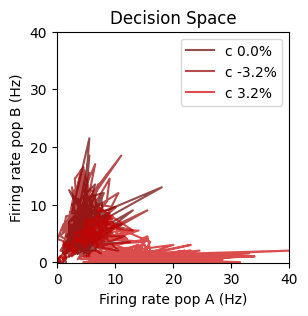
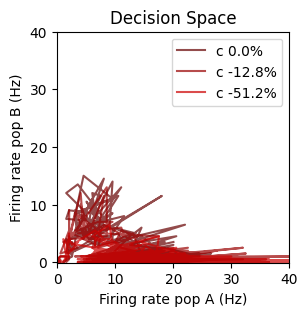
run figure1345

diff --git a/NEST/sim_figure_4.py b/NEST/sim_figure_4.py
@@ -65,8 +65,8 @@ if figure_4b:
     fig,ax4b = plt.subplots(4,1,figsize = [5,10])
     dt_string = 'standard/'
     #DA SETTARE
-    mult_coherence = [0.0,0.032]
-    n_trial = 3
+    mult_coherence = [0.0,0.032, 0.064, 0.128]
+    n_trial = 200
     for i,coherence in enumerate(mult_coherence):
         mean_activity_wB_sB = []
         mean_activity_wA_sB = []
@@ -89,14 +89,14 @@ if figure_4b:
             
         mean_activity_wB_sB = np.mean(mean_activity_wB_sB,axis=0)
         mean_activity_wA_sB = np.mean(mean_activity_wA_sB,axis=0)
-        mean_activity_wB_sB = signal.medfilt(mean_activity_wB_sB,55)
-        mean_activity_wA_sB = signal.medfilt(mean_activity_wA_sB,55)
+        mean_activity_wB_sB = signal.medfilt(mean_activity_wB_sB,35)
+        mean_activity_wA_sB = signal.medfilt(mean_activity_wA_sB,35)
         
-        ax4b[i].plot(t,mean_activity_wB_sB,'black')
-        ax4b[i].plot(t,mean_activity_wA_sB,'orange','--',alpha=0.6)
+        ax4b[i].plot(t[0:120],mean_activity_wB_sB[0:120],'black')
+        ax4b[i].plot(t[0:120],mean_activity_wA_sB[0:120],'orange','--',alpha=0.6)
 
     #DA SETTARE
-    mult_coherence = [-0.032,0.0]
+    mult_coherence = [0.0,0-.032, -0.064, -0.128]
     for i,coherence in enumerate(mult_coherence):
         mean_activity_wB_sA = []
         mean_activity_wA_sA = []
@@ -120,12 +120,13 @@ if figure_4b:
         
         mean_activity_wB_sA = np.mean(mean_activity_wB_sA,axis=0)
         mean_activity_wA_sA = np.mean(mean_activity_wA_sA,axis=0)
-        mean_activity_wB_sA = signal.medfilt(mean_activity_wB_sA,55)
-        mean_activity_wA_sA = signal.medfilt(mean_activity_wA_sA,55)
+        mean_activity_wB_sA = signal.medfilt(mean_activity_wB_sA,35)
+        mean_activity_wA_sA = signal.medfilt(mean_activity_wA_sA,35)
         
-        ax4b[i].plot(t,mean_activity_wB_sA,'black', '--',alpha=0.6)
-        ax4b[i].plot(t,mean_activity_wA_sA,'orange')
+        ax4b[i].plot(t[0:120],mean_activity_wB_sA[0:120],'black', '--',alpha=0.6)
+        ax4b[i].plot(t[0:120],mean_activity_wA_sA[0:120],'orange')
     
+        ax4b[i].set_ylim(0,40)
     if save:
         fig.savefig('figures/'+fig_n+'/Figure4B.png' , bbox_inches='tight')
         plt.close()

diff --git a/NEST/sim_fig_1.py b/NEST/sim_fig_1.py
@@ -14,7 +14,7 @@ dt = 0.1
 dt_rec = 10.0
 
 figure1abc = True
-figure1ed = False
+figure1ed = True
 
 fig_n = 'Figure1'
 if not os.path.exists('figures/'+fig_n+'/'):
@@ -24,12 +24,12 @@ if run_1:
     run_multiple_sim(n_trial = 200)
 
 if figure1abc:
-    fig1a,axes = plt.subplots(6, 2,  figsize=(5,10))
+    fig1a,axes = plt.subplots(6, 2,  figsize=(6,10))
     fig1d,ax = plt.subplots(1, 1,  figsize=(3,3))
     fig1e,ax1e = plt.subplots(1, 1,  figsize=(3,3))
     mult_coherence = [0.0,-0.128,-0.512]
     #DA SETTARE
-    trial = [0,0,1]
+    trial = [158,199,6]
     for i, coherence in enumerate(mult_coherence):
         j = trial[i]
         win_pop = 'A_win'
@@ -53,6 +53,7 @@ if figure1abc:
         axes[2*i+1][0].vlines(end_stim, 0, 40, color='grey')
         axes[2*i+1][0].set_ylabel("A(t) [Hz]")
         axes[2*i+1][0].set_title("Activity Pop A", fontsize=10)
+        axes[2*i+1][0].set_ylim(0,60)
 
         axes[2*i][1].scatter(tsB, evsB,marker= '|',  linewidths = 0.8,color='blue', label ='pop B')
         axes[2*i][1].set_ylabel("neuron #")
@@ -65,6 +66,7 @@ if figure1abc:
         axes[2*i+1][1].vlines(end_stim, 0, 40, color='grey')
         axes[2*i+1][1].set_ylabel("A(t) [Hz]")
         axes[2*i+1][1].set_title("Activity Pop B", fontsize=10)
+        axes[2*i+1][1].set_ylim(0,60)
         plt.xlabel("t [ms]")
 
     ax.set_ylabel("A(t) [Hz]")

diff --git a/NEST/sim_figure_5.py b/NEST/sim_figure_5.py
@@ -26,9 +26,9 @@ if run:
 
 
 fig_5a, axes = plt.subplots(1, 2,  figsize=(3,3))
-fig_5b, axesb = plt.subplots(1, 2,  figsize=(3,3))
+fig_5b, axesb = plt.subplots(1, 1,  figsize=(3,3))
 n_trial = 200
-mult_coherence = [0.0,0.032]
+mult_coherence = [0.0,0.512]
 win_pop = 'B_win'
 thr_activity = 15
 
@@ -48,11 +48,12 @@ for i,coherence in enumerate(mult_coherence):
             axes[i].set_xlabel("Time [ms]")
             decision_time.append(t[B_N_B >= thr_activity][0])  
 
-    axesb[i].hist(decision_time, histtype = 'step', color = 'black', linewidth = 2)
+    axesb.hist(decision_time, color = [0.5-i*0.3,0.4-i*0.3,0.5-i*0.3], linewidth = 2)
+
     # axesb[i].set_xlim(0,200)
     # axesb[i].set_ylim(0, n_trial)
-    axesb[i].set_xlabel('Decision time [ms]')
-    axesb[i].set_ylabel('Counts #')
+    axesb.set_xlabel('Decision time [ms]')
+    axesb.set_ylabel('Counts #')
 
     B_N_B_mean = np.mean(B_N_B_mean,axis=0)
     axes[i].plot(t[ind_start_stim:ind_end_stim], B_N_B_mean[ind_start_stim:ind_end_stim], color='green', label ='pop B')

diff --git a/NEST/sim_fig_3.py b/NEST/sim_fig_3.py
@@ -8,8 +8,8 @@ import os
 fig_n = 'Figure3'
 run = False
 figure_3a = True
-figure_3b = False
-figure_3c = False
+figure_3b = True
+figure_3c = True
 start_stim = 200.0
 end_stim = 1200.0
 simtime = 2500.0
@@ -34,7 +34,7 @@ if figure_3a:
 
     win_pop = 'A_win'
     #DA SCEGLIERE
-    j = 1
+    j = 158
     path = 'results/'+dt_string+'c'+str(coherence) +'/'+win_pop+ '/trial_'+ str(j)+'/'
     evsA, tsA, t, A_N_A, stimulus_A, sum_stimulus_A = extract_results(path, 'A')
     evsB, tsB, t, B_N_B, stimulus_B, sum_stimulus_B = extract_results(path, 'B')
@@ -67,7 +67,7 @@ if figure_3a:
 
     win_pop = 'B_win'
     #DA SCEGLIERE
-    j = 0
+    j = 146
     path = 'results/'+dt_string+'c'+str(coherence) +'/'+win_pop+ '/trial_'+ str(j)+'/'
     evsA, tsA, t, A_N_A, stimulus_A, sum_stimulus_A = extract_results(path, 'A')
     evsB, tsB, t, B_N_B, stimulus_B, sum_stimulus_B = extract_results(path,'B')
